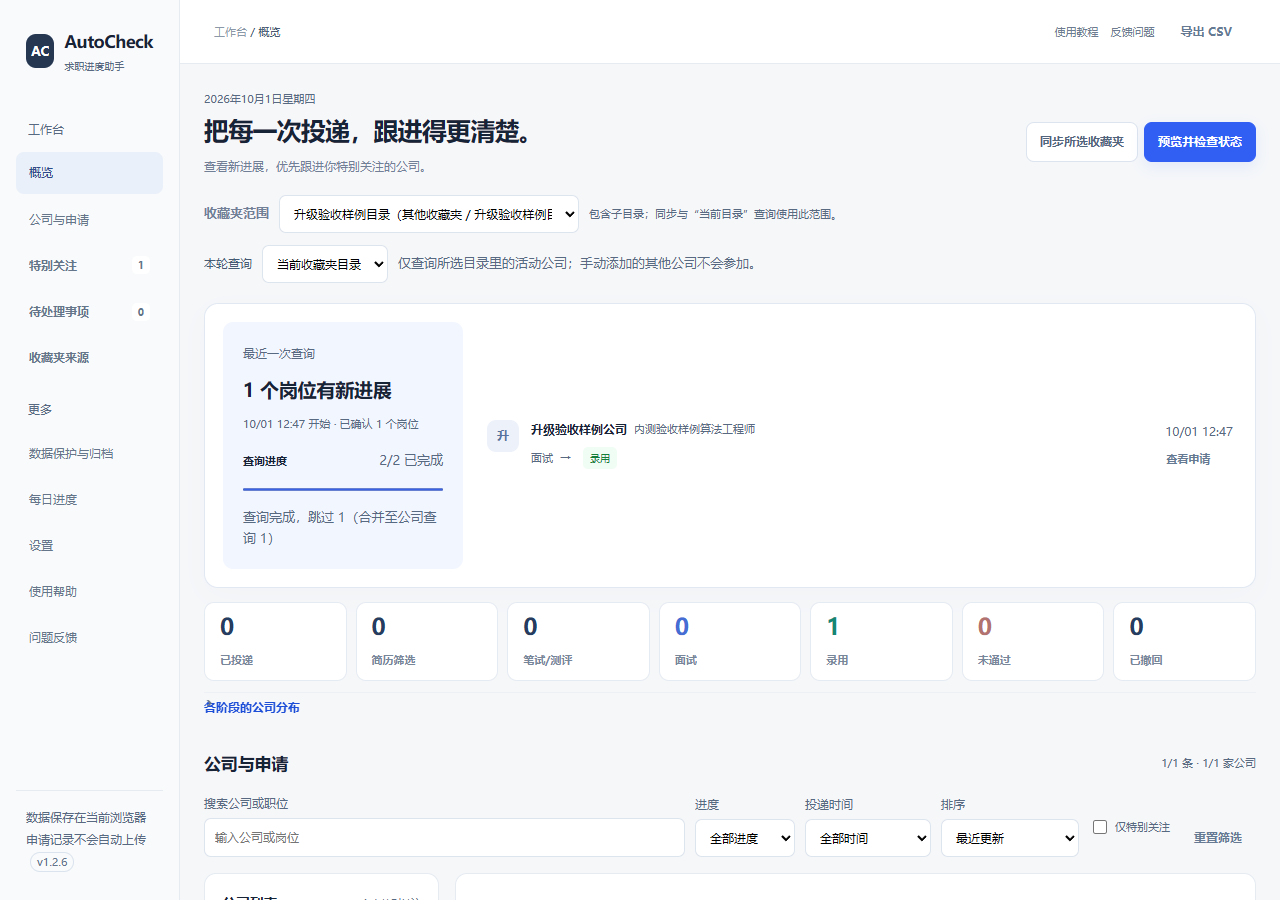
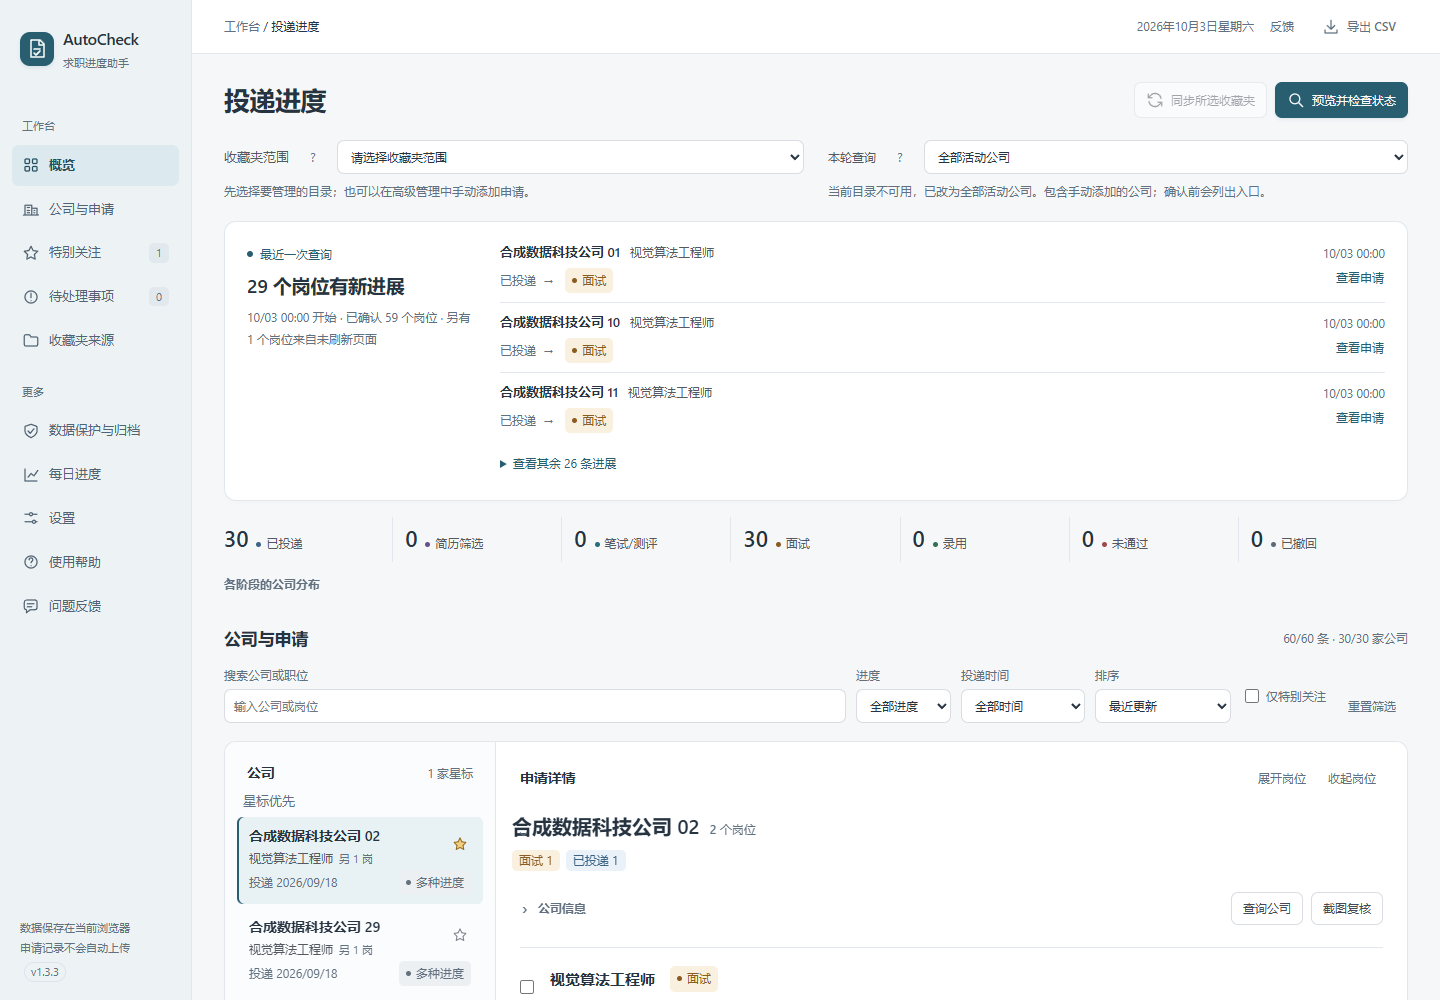
Publish AutoCheck 1.3.10 beta materials

diff --git a/PRIVACY.md b/PRIVACY.md
@@ -1,0 +1,27 @@
+# AutoCheck 内测数据与权限说明
+
+适用于1.3系列内测版。更新日期：2026-10-19。
+
+公司、岗位、投递链接、查询状态、必要的原文快照、设置、归档和最近一份回退副本保存在当前浏览器扩展存储中。查询会访问你保存的招聘网站，并使用浏览器已有的登录环境。AutoCheck不保存密码、不导出Cookie，申请记录不会自动上传给维护者。当前版本不含遥测、广告、云同步或支付服务；网站仍按其自身规则处理访问。
+
+## 权限
+
+- 收藏夹：读取并同步你选择的招聘入口目录。
+- 存储：保存本地记录、设置与保护副本。
+- 标签页与脚本：打开、读取招聘记录页并清理自动创建的临时页面。
+- 定时任务：浏览器运行期间，为启用自动检查的公司安排查询。
+- 网站访问：普通查询按目标站点申请授权；截图复核单独请求全网站授权，完成后不会自动撤销。可在扩展“数据与权限”中撤回可选网站访问权限，基本权限由浏览器扩展管理页处理。
+
+## 备份与移除
+
+JSON完整备份包含私人求职记录，应保存在可信位置。恢复前显示覆盖预览并要求保存当前备份；恢复后自动检查暂停。CSV仅用于查看表格。官网登录、浏览器收藏夹本身及网站授权不会随备份转移。
+
+归档保留历史且可恢复，不等于永久删除。卸载扩展或清除浏览器配置会丢失本地数据；你另存的JSON、CSV和截图需要自行管理。新的保护操作会替换最近一份本地回退副本。
+
+## 反馈与截图
+
+反馈先在本机生成脱敏预览。只有主动打开GitHub预填问题页时，检查后的标题和正文才通过网址交给GitHub；是否提交由你决定。问题通常公开可见，GitHub适用其自身隐私规则。也可复制或下载文稿，交给内测联系人。
+
+自动脱敏可能遗漏身份线索，图片不会自动打码。请勿公开完整备份、原始救援文件、密码、Cookie、验证码、简历或未打码账号截图。
+
+数据用途疑问可通过[反馈入口](https://github.com/USING-A/AutoCheck-releases/issues)联系维护者；请只提供必要的脱敏信息。本说明描述当前内测行为，不代替未来正式发行所需的主体与条款材料。

diff --git a/RELEASE_NOTES.md b/RELEASE_NOTES.md
@@ -1,0 +1,13 @@
+# AutoCheck 1.3.10 内测
+
+2026-10-19。本版通过[GitHub 内测预发行](https://github.com/USING-A/AutoCheck-releases/releases/tag/v1.3.10)提供手动安装包及校验文件。浏览器商店发行尚未完成。
+
+- 修复海康威视可见志愿卡片、部门意向及明确当前状态的识别，等待状态加载完成后再结束采集。
+- 不把未来流程节点作为当前录用状态；等待处理保留未知，多意向冲突提示官网核对。
+- 重复查询按批次、岗位与地点匹配，部门或志愿顺序调整不形成重复岗位；无法区分的同名志愿转人工处理。
+- 保留最近查询公司链接、长公司目录、直接重查、六项每日统计及完整明细/CSV等已有改进。
+- 同步安装帮助和隐私说明，运行包附离线安装说明及SHA-256校验文件。
+
+更新前下载完整JSON备份，覆盖同一个extension目录并在扩展管理页重新加载，然后刷新工作台。不要先卸载。海康无需重新建立公司，重新查询即可使用新规则。
+
+仅采集当前可见记录，隐藏“已结束”分类、分页及其他页面变体仍需逐项验证。当前仍需真人手动安装升级、首次允许/拒绝、真实账号完整性对照和非开发者观察；自动化工程验收不能替代这些结果。
